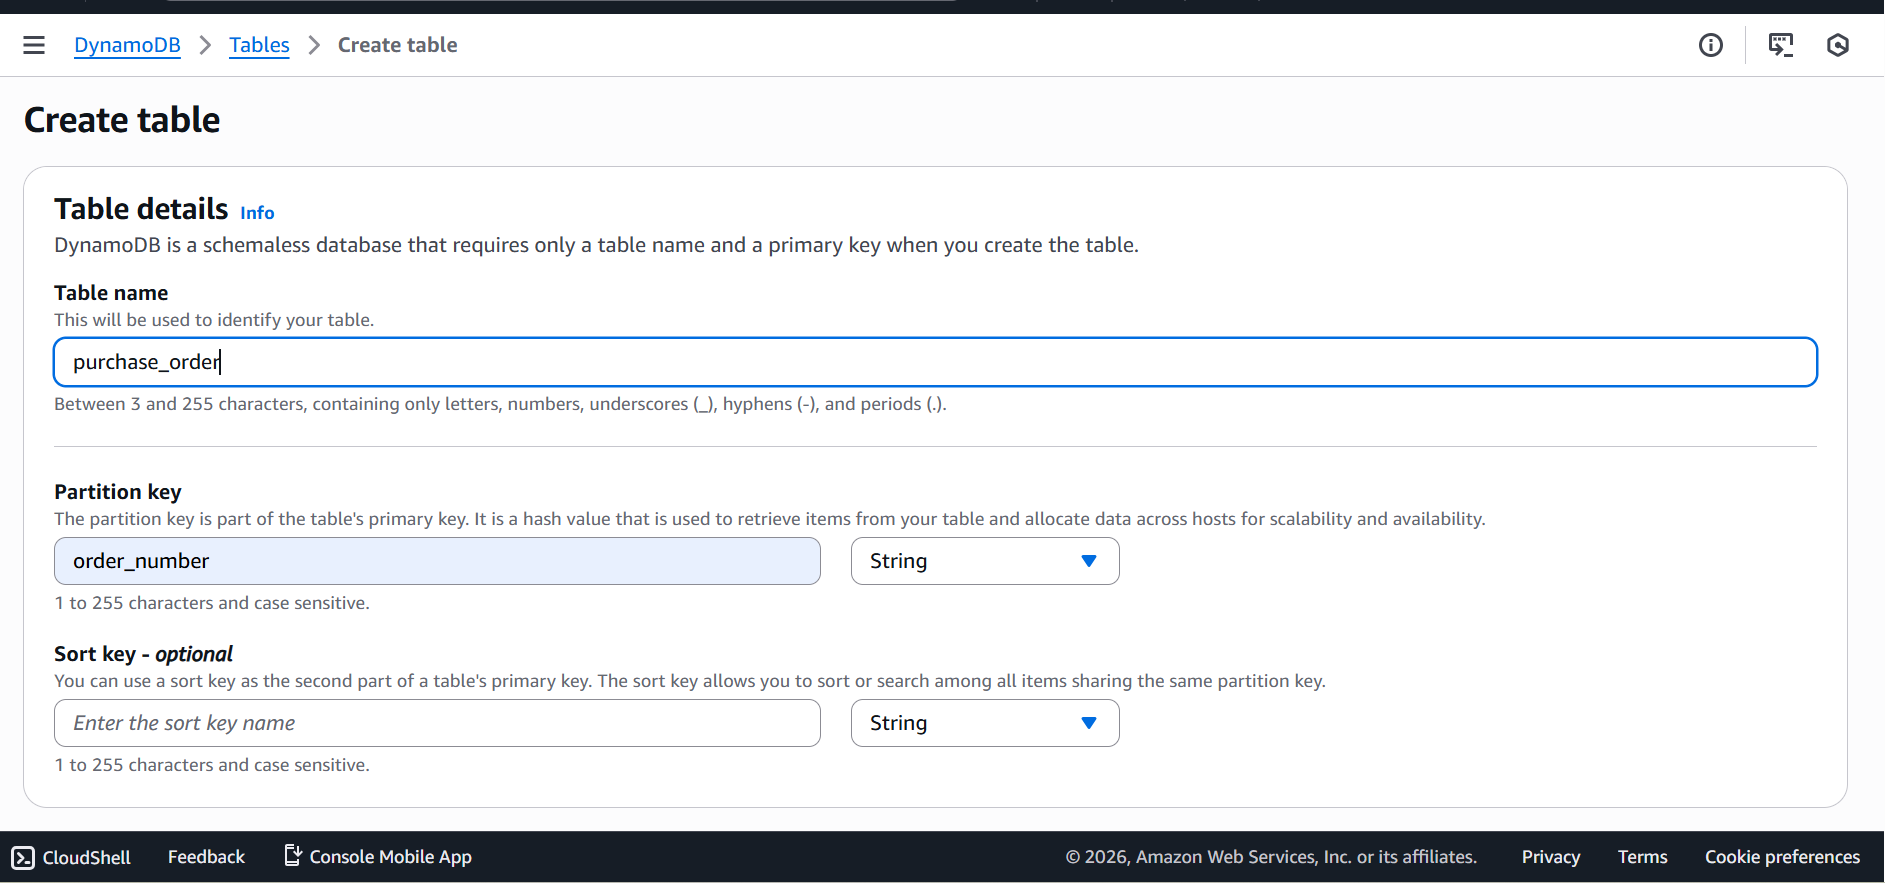
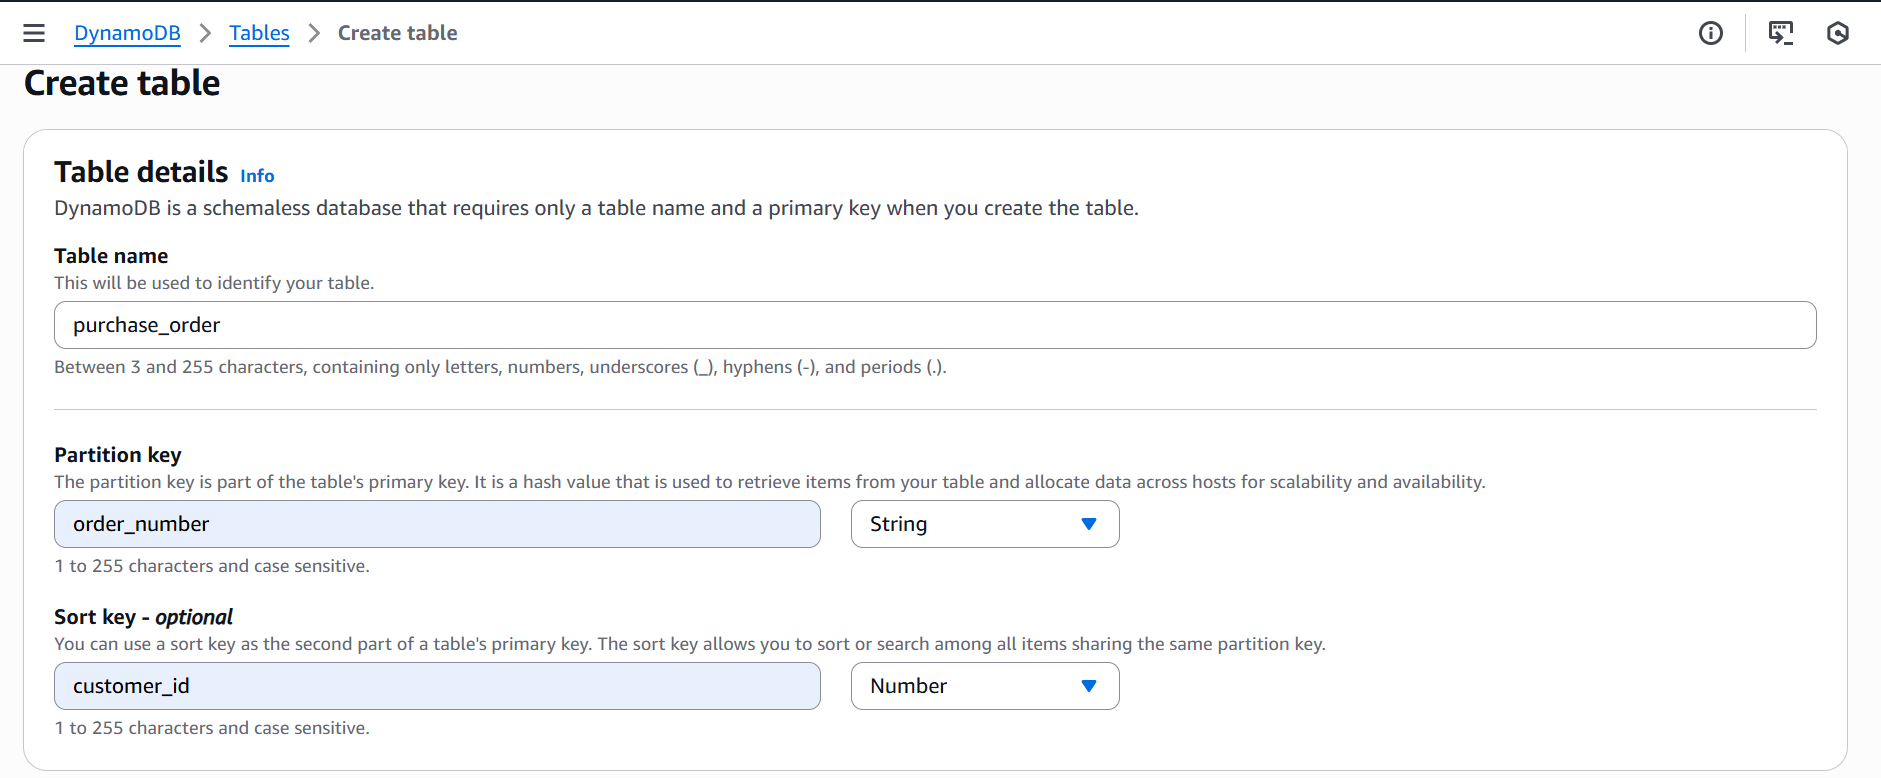
initial commit

diff --git a/README.md b/README.md
@@ -133,7 +133,7 @@ Without this policy, any attempt by the Lambda function to access DynamoDB will 
 
 ![img_5.png](resources/img_5.png)
 
-Once completed, create a **DynamoDB table** named **`purchase_order`** with **`order_number`** as the **partition key**.
+Once completed, create a **DynamoDB table** named **`purchase_order`** with **`order_number: String`** as the **partition key** and customer_id: Number as the **sort key**.
 
 ![img_6.png](resources/img_6.png)
 
@@ -148,7 +148,7 @@ Add an **Integration** by selecting the **Lambda function** created in the previ
 
 ![img_8.png](resources/img_8.png)
 
-Configure routes
+Configure routes /{proxy+}
 
 ![img_9.png](resources/img_9.png)
 
